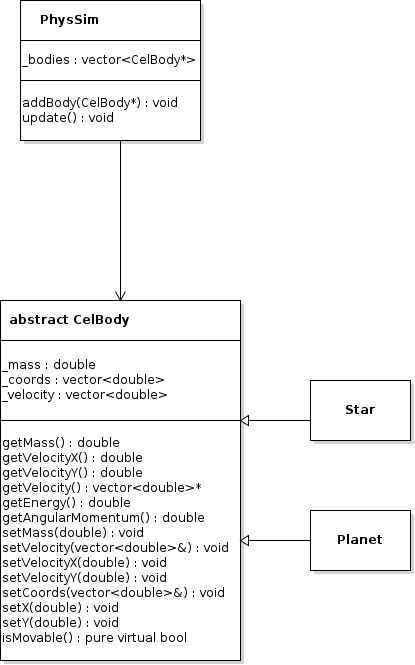
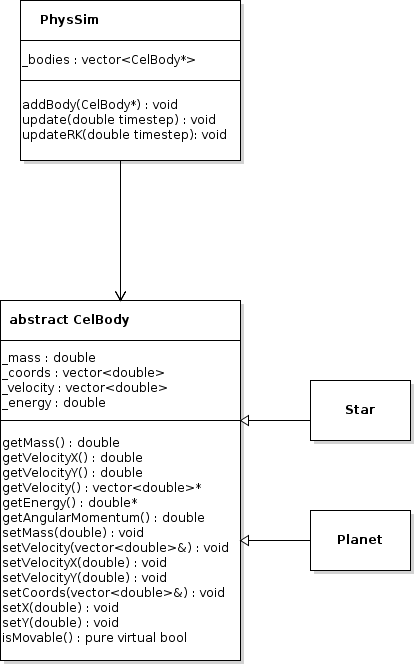
Implemented angular momentum to CelBody, corrected UML, completed plotscript

Changed region(s): [[0.0578, 0.0, 0.5783, 0.2707], [0.0, 0.5113, 0.4048, 0.6316], [0.5783, 0.0, 0.6072, 0.2406]]

diff --git a/Problemset3/CelBody.cpp b/Problemset3/CelBody.cpp
@@ -39,7 +39,6 @@ CelBody::CelBody(double mass, double x, double y, double velocityX,
 	_velocity[0] = velocityX;
 	_velocity[1] = velocityY;
 	_energy = _mass / 2 * (pow(_velocity[0],2.0) + pow(_velocity[1],2.0));
-	_angularMomentum = 1.337;
 }
 
 CelBody::~CelBody()
@@ -165,7 +164,7 @@ vector<double>* CelBody::getCoords()
 }
 
 /**
- * Getter method for the energy of the celestial body. For now, this is pure kinetic energy on it's orbit.
+ * Getter method for the energy of the celestial body.
  *
  * @brief Getter for the energy
  *
@@ -173,7 +172,7 @@ vector<double>* CelBody::getCoords()
  * @date Dec. 7, 2015
  * @version 0.1
  *
- * @return Celestial body's energy [kg / (km/s)**2]
+ * @return Celestial body's energy [MJ]
  */
 double* CelBody::getEnergy()
 {
@@ -189,12 +188,11 @@ double* CelBody::getEnergy()
  * @date Dec. 7, 2015
  * @version 0.1
  *
- * @return Celestial body's angular momentum
+ * @return Celestial body's angular momentum [kg * km**2 / s]
  */
-double* CelBody::getAngularMomentum()
+double CelBody::getAngularMomentum()
 {
-	//TODO implement
-	return nullptr;
+	return _mass * sqrt((pow(_velocity[0],2.0) + pow(_velocity[1],2.0))) * sqrt(pow(_coords[0],2.0)+pow(_coords[1],2.0));
 }
 
 /**

diff --git a/Problemset3/PhysSim.cpp b/Problemset3/PhysSim.cpp
@@ -154,19 +154,19 @@ void PhysSim::updateRK(double timestep)
 						* (_bodies[j]->getMass() * distanceComponent)
 						/ std::pow(distance, 3.0);
 				acceleration[0] += -GRAV_CONST
-						* (_bodies[j]->getMass() * (distanceComponent + eulerAcceleration[0] / 2))
+						* (_bodies[j]->getMass() * (distanceComponent + (timestep *eulerAcceleration[0]) / 2))
 						/ std::pow(distance, 3.0);
 				distanceComponent = _bodies[i]->getY() - _bodies[j]->getY();
 				eulerAcceleration[1] += -GRAV_CONST
 						* (_bodies[j]->getMass() * distanceComponent)
 						/ std::pow(distance, 3.0);
 				acceleration[1] += -GRAV_CONST
-										* (_bodies[j]->getMass() * (distanceComponent + eulerAcceleration[0] / 2))
+										* (_bodies[j]->getMass() * (distanceComponent + (timestep * eulerAcceleration[0]) / 2))
 										/ std::pow(distance, 3.0);
 				ePot += -GRAV_CONST * _bodies[i]->getMass() * _bodies[j]->getMass() / distance;
-
 			}
 		}
+		ePot *= 1e6;
 
 		//update position and velocity
 		if (_bodies[i]->isMovable())

diff --git a/Problemset3/main.cpp b/Problemset3/main.cpp
@@ -17,17 +17,22 @@ int main()
 	sim->addBody(planet);
 	sim->addBody(planet2);
 
-	double stepsize = YEAR /  365;
+	double stepsize = YEAR / 365;
 	//simulate orbit for 2 years, one day step
+	//print table formatted as:
+	//x_1, y_1, x_2, y_2, t, E_1, E_2, L_1, L_2
 	for(int i = 0; i < 10000 * 365; i++)
 	{
-		sim->updateRK(stepsize);
+		sim->update(stepsize);
 		cout << planet->getX() / AU << "\t"
 			 << planet->getY() / AU << "\t"
 			 << planet2->getX() / AU << "\t"
 			 << planet2->getY() / AU << "\t"
 			 << (double)(i * stepsize) / YEAR << "\t"
-			 << *(planet->getEnergy())
+			 << *(planet->getEnergy()) << "\t"
+			 << *(planet2->getEnergy()) << "\t"
+			 << planet->getAngularMomentum() << "\t"
+			 << planet2->getAngularMomentum()
 			 << endl;
 	}
 

diff --git a/Problemset3/CelBody.h b/Problemset3/CelBody.h
@@ -33,7 +33,7 @@ public:
 	double getY();
 	std::vector<double>* getCoords();
 	double* getEnergy();
-	double* getAngularMomentum();
+	double getAngularMomentum();
 
 	void setMass(double mass);
 
@@ -50,7 +50,6 @@ public:
 protected:
 	double _mass;
 	double _energy;
-	double _angularMomentum;
 
 	std::vector<double> _coords;
 	std::vector<double> _velocity;
